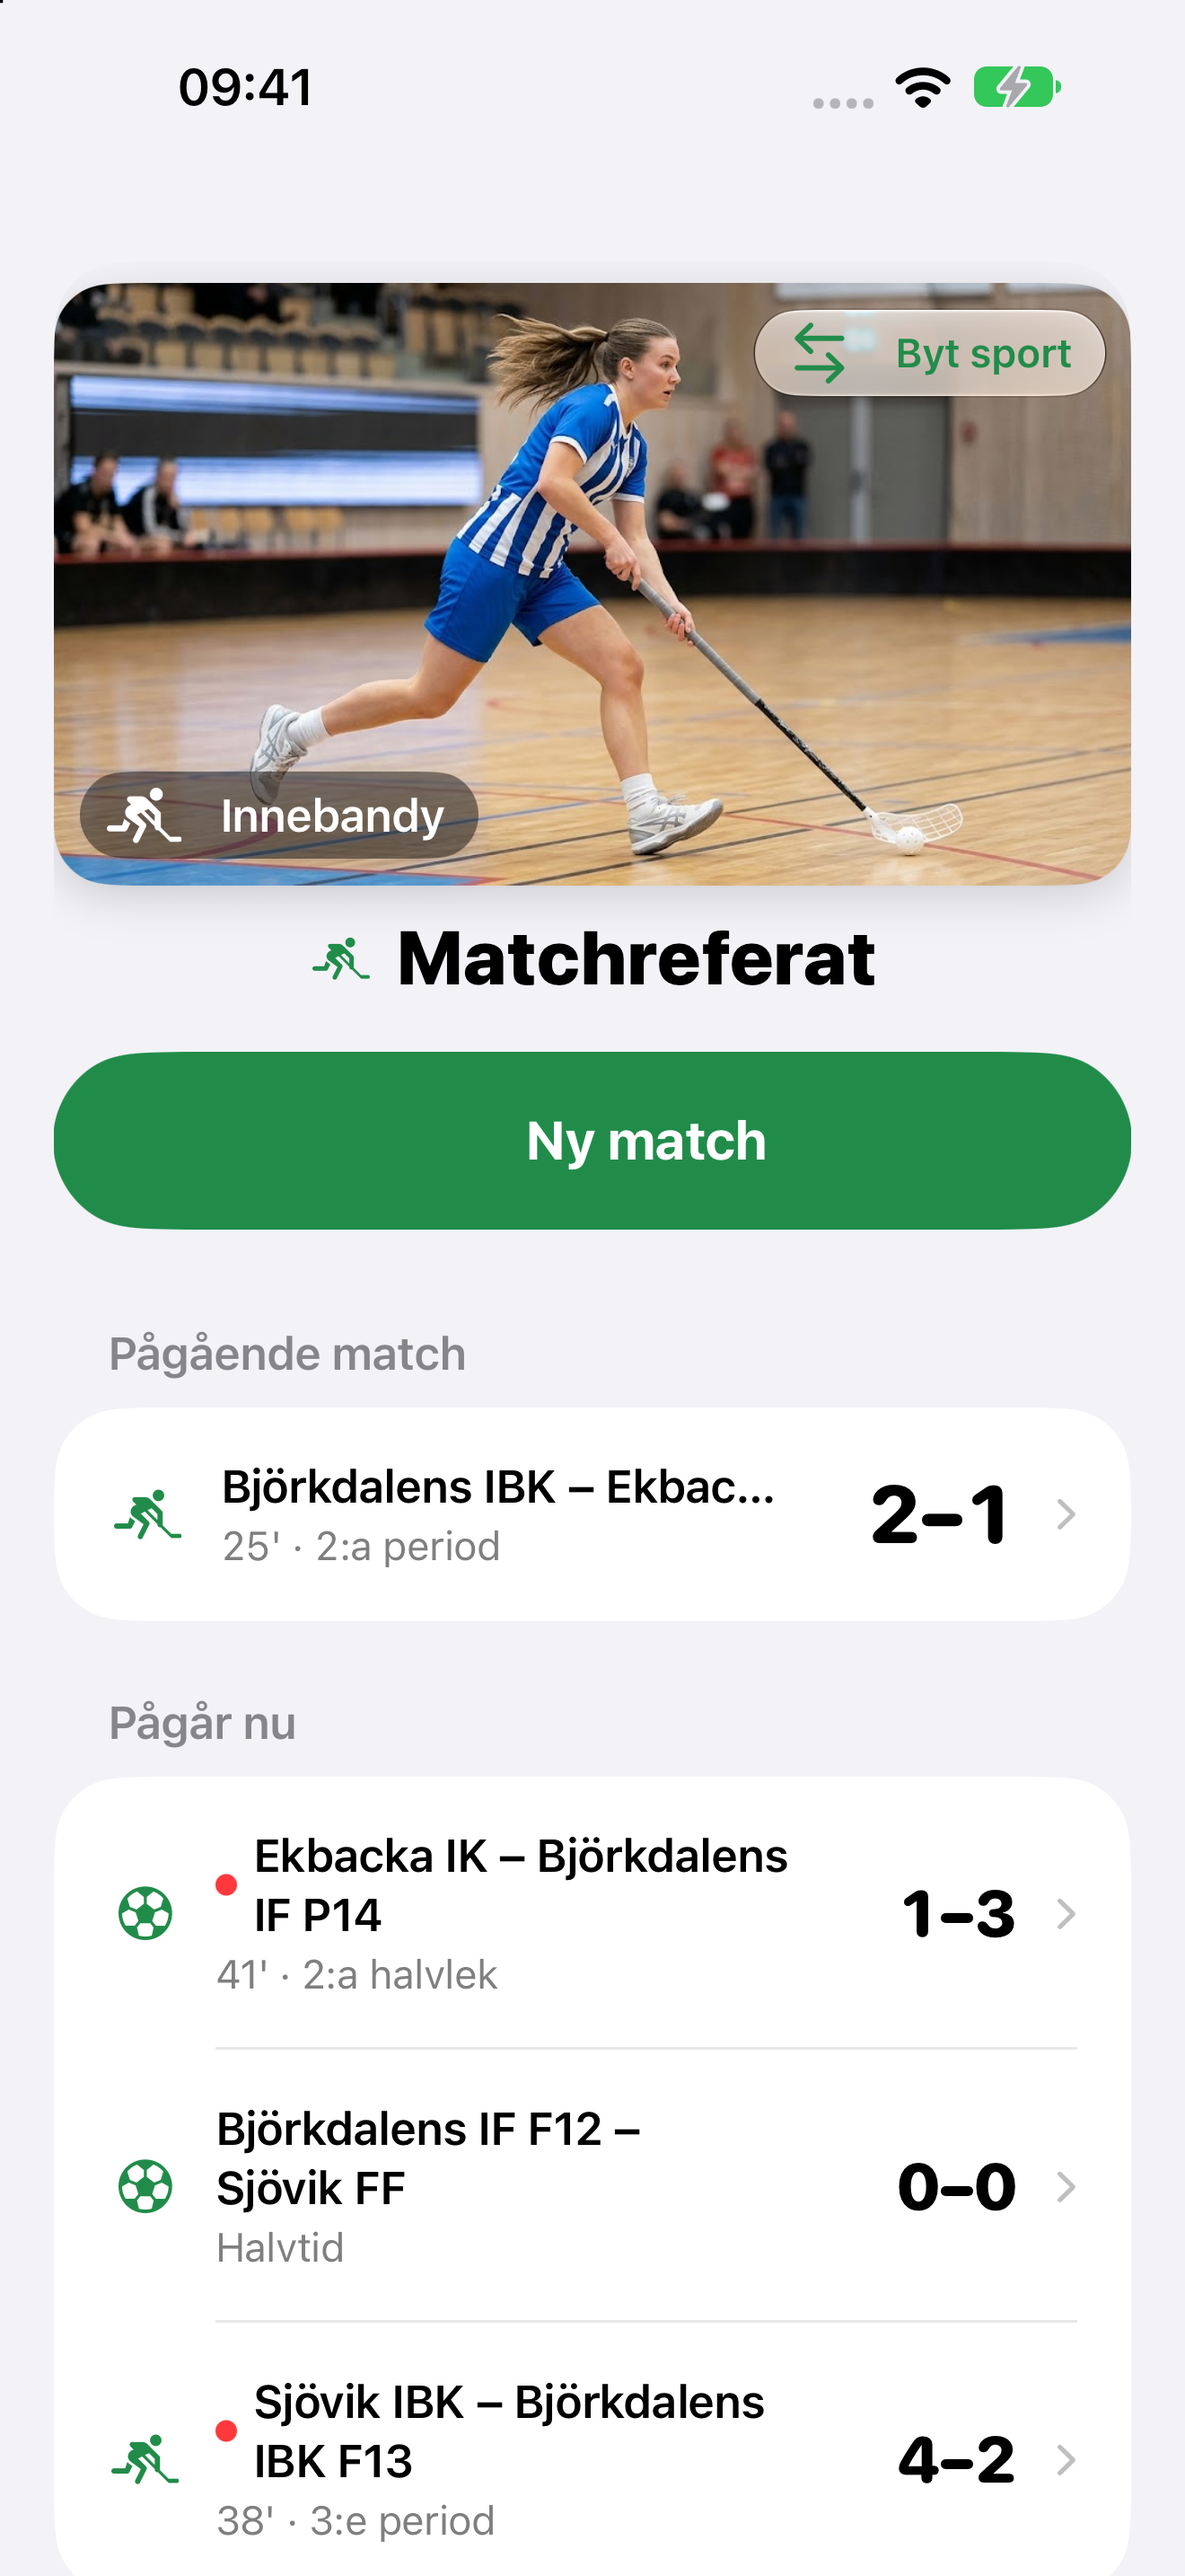
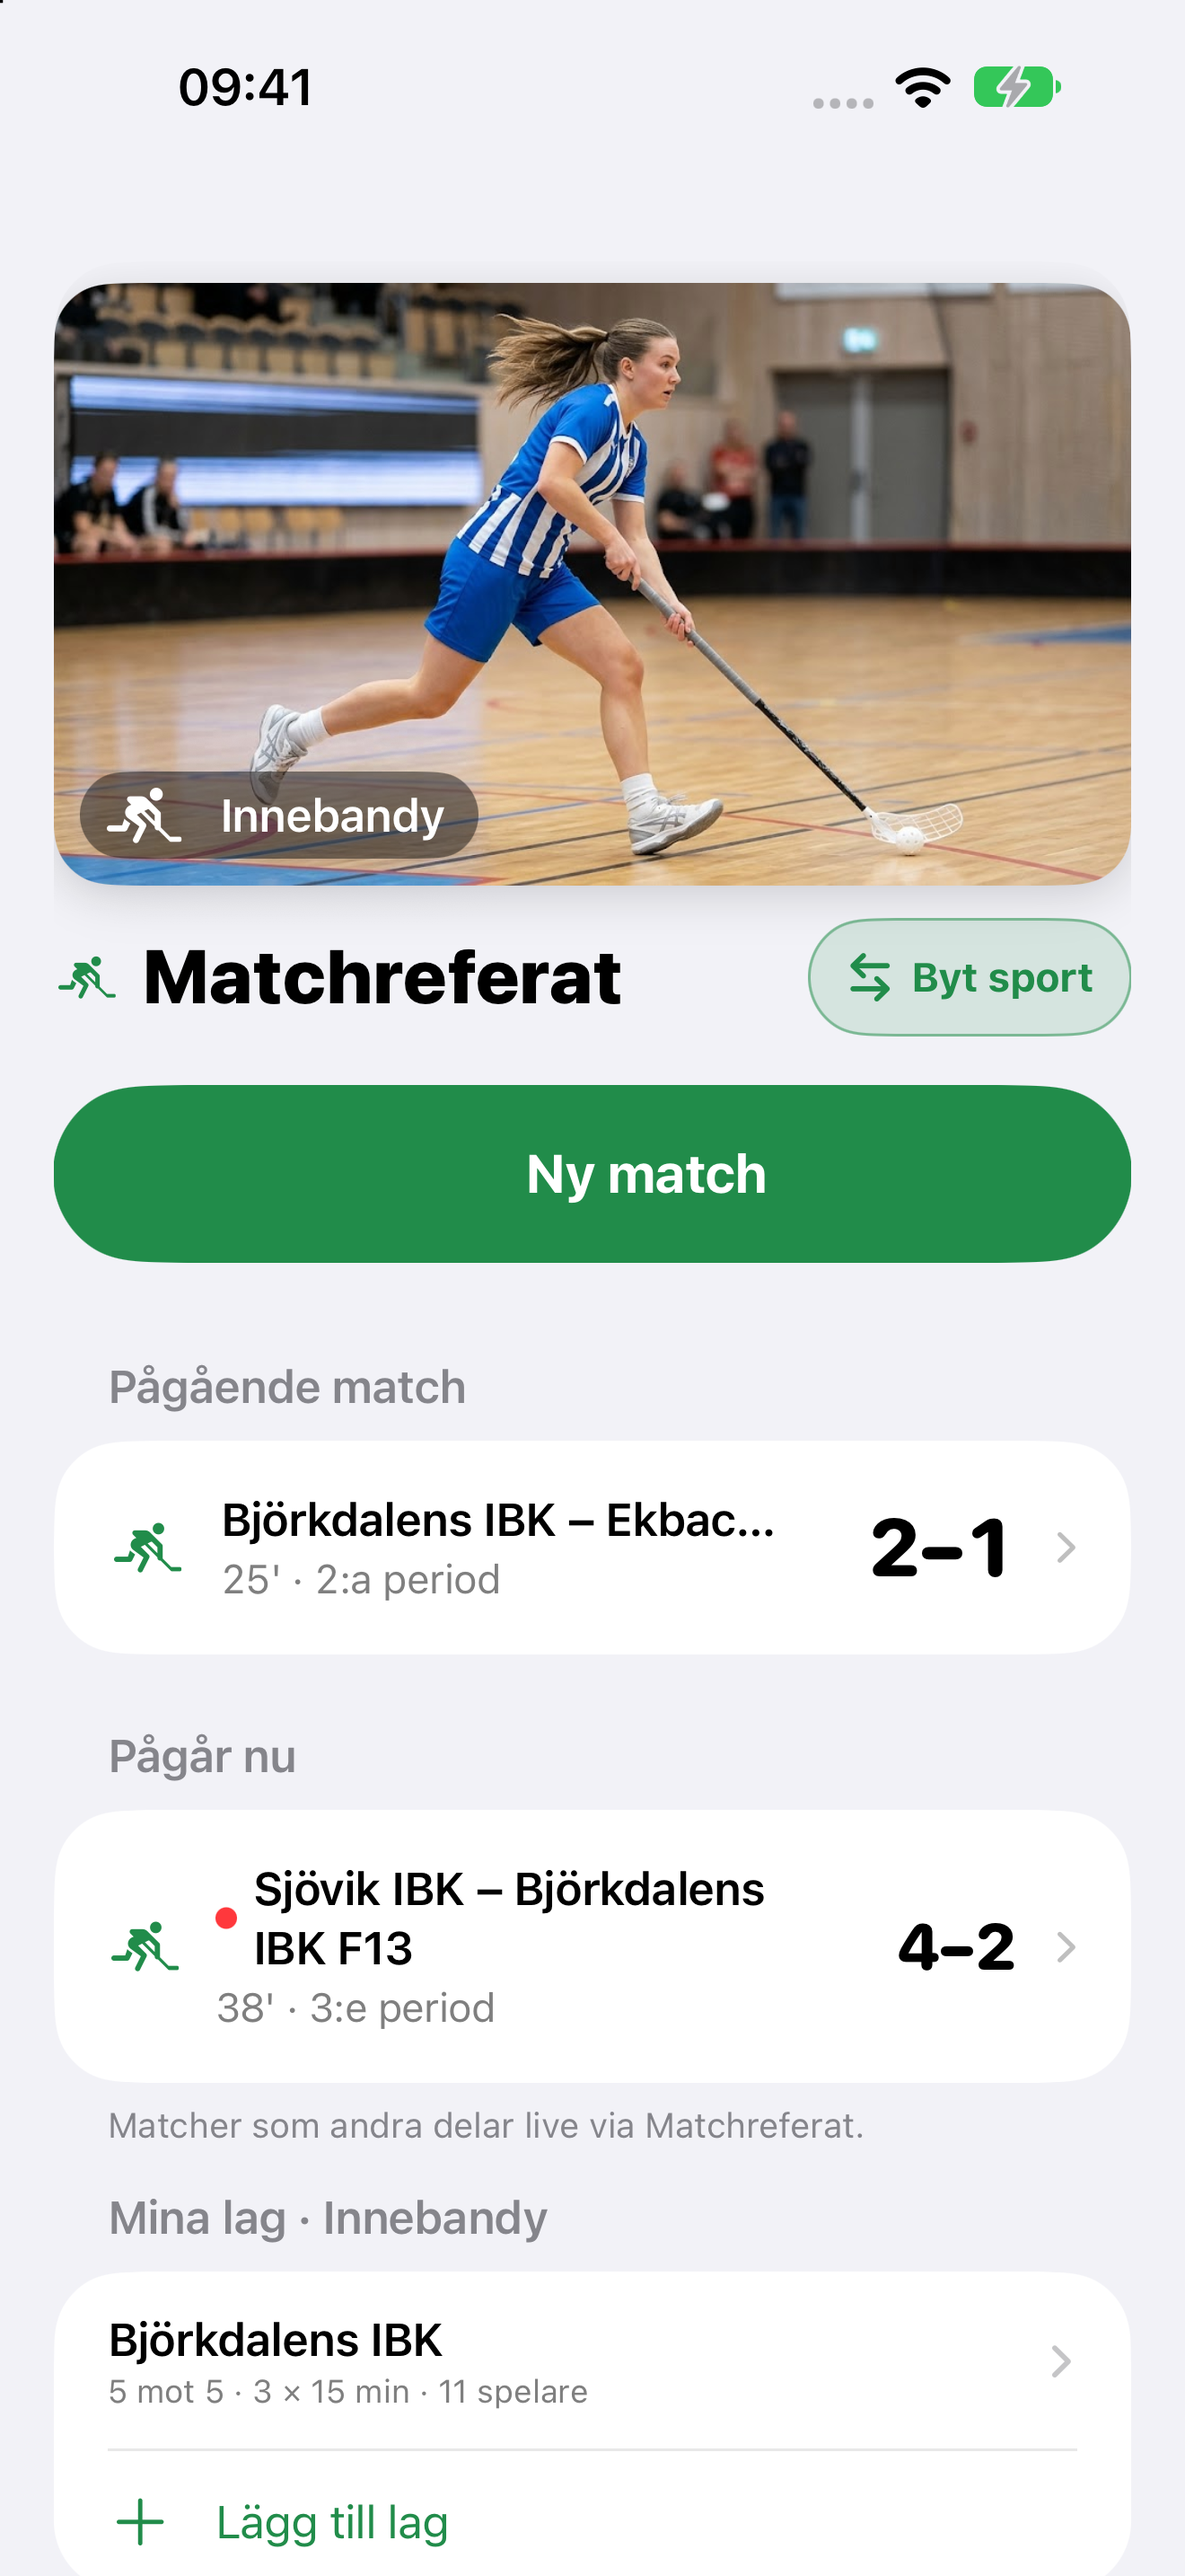
Byt sport som tydlig knapp bredvid appnamnet i stället för på bilden
Gröntonad kapsel (samma stil som Dela live), minst 44 pt hög, syns i ljust och
mörkt läge. Med största textstorlekarna hamnar den under namnet.

diff --git a/Sources/StartView.swift b/Sources/StartView.swift
@@ -135,34 +135,65 @@ struct StartView: View {
     }
 }
 
-/// The sport's picture with the app name and a button back to the sport picker.
+/// The sport's picture with the app name and a button back to the sport picker. The button sits
+/// beside the name, not on the picture, so it is easy to see whatever the picture shows.
 struct SportHeader: View {
     let sport: Sport
     let changeSport: () -> Void
+    @Environment(\.dynamicTypeSize) private var typeSize
 
     var body: some View {
-        VStack(spacing: 10) {
+        VStack(spacing: 12) {
             SportPicture(sport: sport)
-                .overlay(alignment: .topTrailing) {
-                    Button(action: changeSport) {
-                        Label("Byt sport", systemImage: "arrow.left.arrow.right")
-                            .font(.subheadline.weight(.semibold))
-                    }
-                    .buttonStyle(.glass)
-                    .padding(10)
-                    .accessibilityHint("Visar sportvalet")
+            // With the largest text sizes the button goes under the name, so neither is cut off.
+            if typeSize.isAccessibilitySize {
+                VStack(spacing: 10) {
+                    title
+                    changeButton
                 }
-            HStack(spacing: 8) {
-                Image(systemName: sport.icon)
-                    .foregroundStyle(Theme.green)
-                    .accessibilityHidden(true)
-                Text("Matchreferat")
-                    .font(.title.weight(.heavy))
+            } else {
+                HStack(spacing: 12) {
+                    title
+                    Spacer(minLength: 8)
+                    changeButton
+                }
             }
-            .accessibilityElement(children: .combine)
-            .accessibilityLabel("Matchreferat, \(sport.label)")
-            .accessibilityAddTraits(.isHeader)
         }
+    }
+
+    private var title: some View {
+        HStack(spacing: 8) {
+            Image(systemName: sport.icon)
+                .foregroundStyle(Theme.green)
+                .accessibilityHidden(true)
+            Text("Matchreferat")
+                .font(.title.weight(.heavy))
+                .lineLimit(1)
+                .minimumScaleFactor(0.6)
+        }
+        .accessibilityElement(children: .combine)
+        .accessibilityLabel("Matchreferat, \(sport.label)")
+        .accessibilityAddTraits(.isHeader)
+    }
+
+    private var changeButton: some View {
+        Button(action: changeSport) {
+            HStack(spacing: 6) {
+                Image(systemName: "arrow.left.arrow.right")
+                Text("Byt sport").lineLimit(1)
+            }
+            .font(.subheadline.weight(.bold))
+            .foregroundStyle(Theme.green)
+            .padding(.horizontal, 14)
+            .frame(minHeight: 44)
+            // Same style as "Dela live" on the match page; Ny match below stays the only filled button.
+            .background(Theme.green.opacity(0.14), in: Capsule())
+            .overlay(Capsule().strokeBorder(Theme.green.opacity(0.5), lineWidth: 1))
+            .contentShape(Capsule())
+        }
+        .buttonStyle(.plain)
+        .fixedSize(horizontal: true, vertical: false)
+        .accessibilityHint("Visar sportvalet")
     }
 }
 
